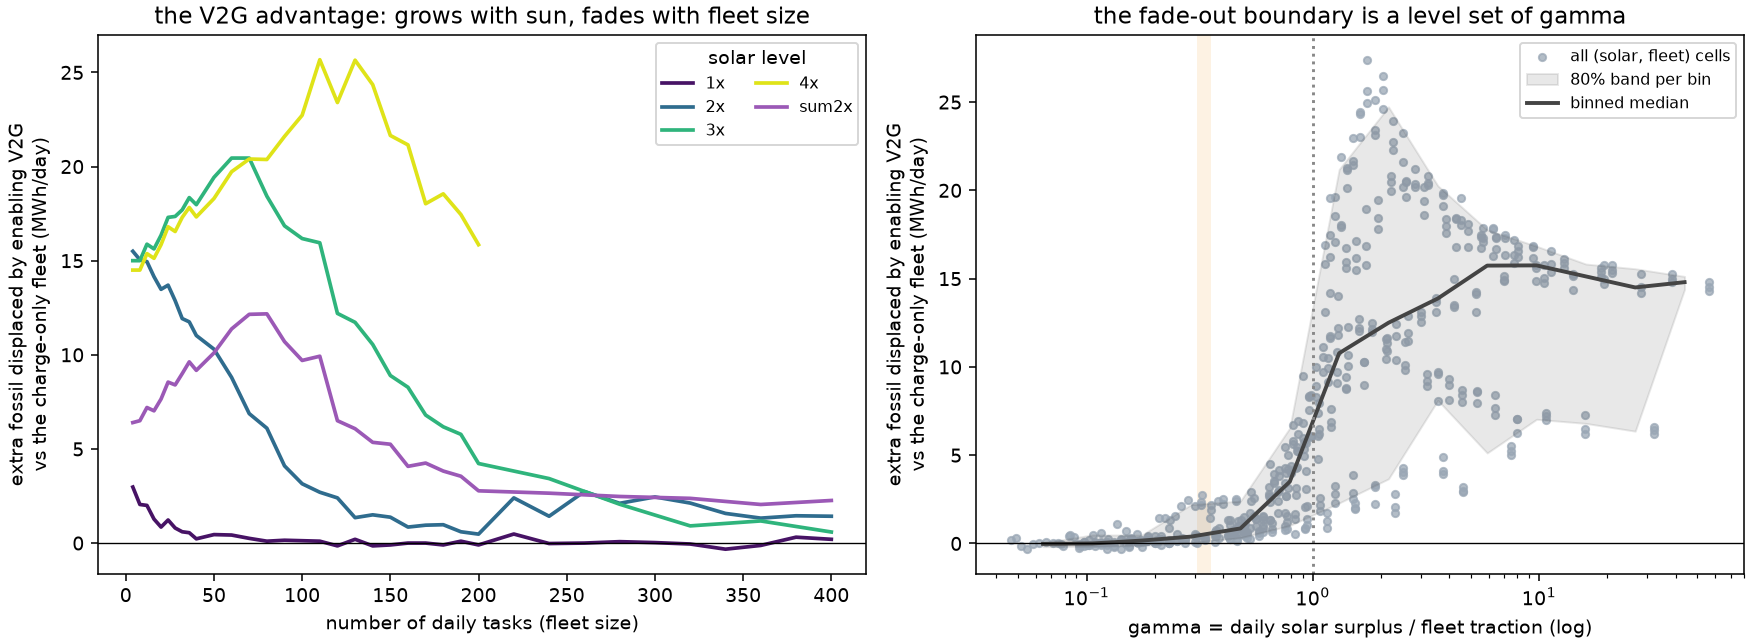
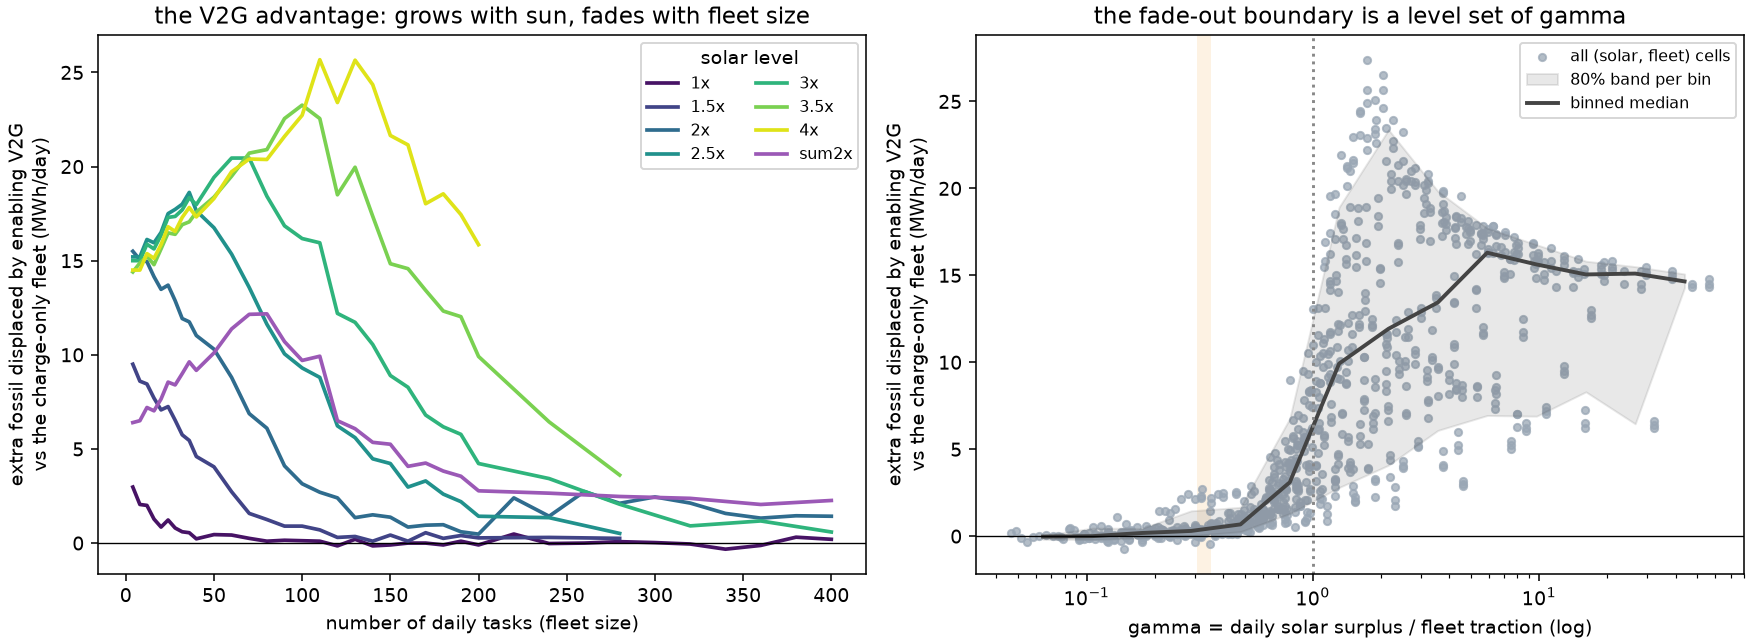
overnight6 (CAPS3 charging-resolution, SATFIX fixed-fleet concavity) + fig 8.16 redesign, fig 8.13 panel letters
Fig 8.16 rebuilt around the two defensible stories: (a) the feasibility cliff
at chg=0.7 (charge-only 9/9 -> 7/9 -> 5/9 -> 1/9 infeasible as the generation
cap tightens; V2G flat at 1/9), (b) matched-instance value vs charging cap at
uncapped generation. The old aggregated value-vs-gen-cap panel mixed different
surviving fleet-size mixes per cap level (Simpson-style selection artifact:
tight-charging cells averaged only small-fleet survivors) and its
'tight generation caps raise value 55->85%' reading is retracted.

diff --git a/overnight6.py b/overnight6.py
@@ -1,0 +1,109 @@
+"""
+Overnight-6: two follow-ups from the figure review. Same conventions as
+overnight3/4/5 (atomic per-row checkpoints, idx%K shards, seed-outermost).
+
+  CAPS3  : charging-cap resolution + seeds for Fig 8.16(b). chg_c in
+           {0.35,0.5,0.7,1.0,1.4,inf} at UNCAPPED generation, n in {20,60,120},
+           seeds 0-5, solar vs v2g. Dedups against CAPS/CAPS2 grids. Gives the
+           matched value-vs-charging-cap lines proper resolution and error bars.
+  SATFIX : the true concavity view that Fig 8.6 failed to show: FIXED fleet
+           and duty, fine solar ladder (pv 1.00-4.00 step 0.25), so absorption
+           saturates through the fleet+storage capacity rather than being
+           bought away. Feeds a fuel-vs-solar curve whose marginal displacement
+           shrinks (Theorem 1's signature), n in {20,60}, seeds 0-2.
+
+Run:   OVERNIGHT6_STUDIES="CAPS3,SATFIX" OVERNIGHT6_SHARD="i/K" python3 overnight6.py
+"""
+from __future__ import annotations
+import os, sys, json, time, glob
+
+sys.path.insert(0, os.path.dirname(os.path.abspath(__file__)))
+import numpy as np
+from recreate_arxiv import build_instance, BREAKS
+from overnight3 import ckpt, save, solve, rand_trips
+
+STUDIES = os.environ.get("OVERNIGHT6_STUDIES", "CAPS3,SATFIX").split(",")
+SH_I, SH_K = (int(x) for x in os.environ.get("OVERNIGHT6_SHARD", "0/1").split("/"))
+OUT = os.path.join(os.path.dirname(os.path.abspath(__file__)), "results", "arxiv")
+
+
+def _stats(inst):
+    surplus = float(np.maximum(-inst.Delta, 0.0).sum())
+    traction = float(sum(tr.energy for tr in inst.trips))
+    return {"surplus_mwh": round(surplus / 10, 2), "traction_mwh": round(traction / 10, 2),
+            "ratio": round(surplus / max(traction, 1e-9), 3)}
+
+
+def caps3():
+    rows, path = ckpt(f"overnight4_caps3_s{SH_I}of{SH_K}.json")
+    done = {(r["gen_m"], r["chg_c"], r["n_tasks"], r["seed"], r["scenario"]) for r in rows}
+    for p in glob.glob(os.path.join(OUT, "overnight4_caps_s*.json")) + \
+             glob.glob(os.path.join(OUT, "overnight4_caps2_s*.json")):
+        for r in json.load(open(p)):
+            done.add((r["gen_m"], r["chg_c"], r["n_tasks"], r["seed"], r["scenario"]))
+    PV = 2.5
+    CHG = [0.35, 0.5, 0.7, 1.0, 1.4, float("inf")]
+    cells = [(sd, n, c) for sd in range(6) for n in (20, 60, 120) for c in CHG]
+    print(f"CAPS3: {len(cells)} cells x 2, shard {SH_I}/{SH_K} ({len(rows)} done)", flush=True)
+    for idx, (sd, n, c) in enumerate(cells):
+        if idx % SH_K != SH_I:
+            continue
+        fleet = rand_trips(3, n, sd, salt=50_000)
+        inst0 = build_instance(3, 2.0, BREAKS, trip_list=fleet, pv_scale=PV)
+        peak_sur = float(np.maximum(-inst0.Delta, 0.0).max())
+        base = {"gen_m": float("inf"), "chg_c": c, "pv": PV, "n_tasks": n, "seed": sd,
+                "charge_cap": (round(c * peak_sur, 2) if np.isfinite(c) else None), **_stats(inst0)}
+        for scen in ("solar", "v2g"):
+            if (float("inf"), c, n, sd, scen) in done:
+                continue
+            inst = build_instance(3, 2.0, BREAKS, trip_list=fleet, pv_scale=PV)
+            inst.charge_cap = c * peak_sur if np.isfinite(c) else float("inf")
+            r = solve(inst, scen, tl=120.0)
+            if r is None:
+                rows.append({**base, "scenario": scen, "feasible": False})
+            else:
+                rows.append({**base, "scenario": scen, "feasible": True,
+                             "total": round(r["total"], 1), "g_units": round(r["g_units"], 2),
+                             "trucks": r["trucks"], "batteries": r["batteries"],
+                             "gap_pct": round(r["gap"], 3)})
+            save(rows, path)
+        if idx % 15 == 0:
+            print(f"  [{idx + 1}/{len(cells)}, {len(rows)} rows]", flush=True)
+
+
+def satfix():
+    rows, path = ckpt(f"overnight6_satfix_s{SH_I}of{SH_K}.json")
+    done = {(r["pv"], r["n_tasks"], r["seed"], r["scenario"]) for r in rows}
+    PVS = [round(1.0 + 0.25 * k, 2) for k in range(13)]      # 1.00 .. 4.00
+    cells = [(sd, n, pv) for sd in (0, 1, 2) for n in (20, 60) for pv in PVS]
+    print(f"SATFIX: {len(cells)} cells x 2, shard {SH_I}/{SH_K} ({len(rows)} done)", flush=True)
+    for idx, (sd, n, pv) in enumerate(cells):
+        if idx % SH_K != SH_I:
+            continue
+        fleet = rand_trips(3, n, sd, salt=50_000)
+        inst0 = build_instance(3, 2.0, BREAKS, trip_list=fleet, pv_scale=pv)
+        base = {"pv": pv, "n_tasks": n, "seed": sd, **_stats(inst0),
+                "baseline_mwh": round(float(np.maximum(inst0.Delta, 0.0).sum()) / 10, 2)}
+        for scen in ("solar", "v2g"):
+            if (pv, n, sd, scen) in done:
+                continue
+            inst = build_instance(3, 2.0, BREAKS, trip_list=fleet, pv_scale=pv)
+            r = solve(inst, scen, tl=120.0)
+            if r is None:
+                continue
+            rows.append({**base, "scenario": scen, "total": round(r["total"], 1),
+                         "g_units": round(r["g_units"], 2), "trucks": r["trucks"],
+                         "batteries": r["batteries"], "gap_pct": round(r["gap"], 3)})
+            save(rows, path)
+        if idx % 15 == 0:
+            print(f"  [{idx + 1}/{len(cells)}, {len(rows)} rows]", flush=True)
+
+
+if __name__ == "__main__":
+    os.makedirs(OUT, exist_ok=True)
+    FN = {"CAPS3": caps3, "SATFIX": satfix}
+    t0 = time.time()
+    for st in [s.strip().upper() for s in STUDIES]:
+        t1 = time.time(); FN[st]()
+        print(f"-- {st} done in {(time.time() - t1) / 60:.1f} min --\n", flush=True)
+    print(f"all done in {(time.time() - t0) / 3600:.2f} h")

diff --git a/section8_gallery.py b/section8_gallery.py
@@ -984,7 +984,7 @@ if sa13:
                        label=f"{'EVSP-Solar' if scen == 'solar' else 'EVSP-V2G'}, {TIT9.get(sol, sol)}")
     ax[0].axhline(0, color="#888", lw=0.7)
     ax[0].set_xlabel("number of task locations L"); ax[0].set_ylabel("total-cost saving from chargers everywhere (%)")
-    ax[0].set_title("value of distributed charging grows with the map")
+    ax[0].set_title("(a) value of distributed charging grows with the map")
     ax[0].legend(fontsize=8, loc="lower right")
     for st, c, lab in (("depot", "#888888", "charger at depot only"),
                        ("all", "#16a085", "charger at every location")):
@@ -995,7 +995,7 @@ if sa13:
             b.append(float(np.mean(v)) if v else np.nan)
         ax[1].plot(LS13, b, "-o", color=c, ms=4, label=lab)
     ax[1].set_xlabel("number of task locations L"); ax[1].set_ylabel("stationary batteries bought (mean, 2x solar)")
-    ax[1].set_title("distributed charging substitutes for stationary storage"); ax[1].legend(fontsize=8)
+    ax[1].set_title("(b) distributed charging substitutes for stationary storage"); ax[1].legend(fontsize=8)
     for sol, mk in (("1x", "-o"), ("2x", "-s"), ("summer", "--^"), ("sum2x", "--v")):
         vs = []
         for L in LS13:
@@ -1008,7 +1008,7 @@ if sa13:
             vs.append(float(np.mean(pp)) if pp else np.nan)
         ax[2].plot(LS13, vs, mk, ms=4, label=TIT9.get(sol, sol))
     ax[2].set_xlabel("number of task locations L"); ax[2].set_ylabel("V2G saving vs charge-only (%)")
-    ax[2].set_title("V2G value by solar regime, across map sizes"); ax[2].legend(fontsize=8)
+    ax[2].set_title("(c) V2G value by solar regime, across map sizes"); ax[2].legend(fontsize=8)
     # charger build-out frontier: depot -> +2 -> +5 -> everywhere (large maps)
     NARMS = [("depot", 1), ("sub2", 3), ("sub5", 6), ("all", None)]
     for scen, c in (("solar", "#e08020"), ("v2g", "#2E75B6")):
@@ -1025,7 +1025,7 @@ if sa13:
     ax[3].axhline(0, color="#888", lw=0.7)
     ax[3].set_xlabel("number of charging locations (depot + k)")
     ax[3].set_ylabel("total-cost saving vs depot-only (%)")
-    ax[3].set_title("charger build-out: diminishing returns"); ax[3].legend(fontsize=8)
+    ax[3].set_title("(d) charger build-out: diminishing returns"); ax[3].legend(fontsize=8)
     finish(fig, "fig_8_13_stations.png")
     GALLERY.append("\n![fig 8.13](fig_8_13_stations.png)\n")
     caption("Figure 8.13",
@@ -1170,69 +1170,67 @@ if et15:
         "the high-solar value survives. The R-rule's boundary is therefore "
         "loss-robust; only the height of the curve moves.")
 
-# %% Figure 8.16 -- infrastructure caps: value under binding limits + the feasibility cliff
+# %% Figure 8.16 -- infrastructure caps: the feasibility cliff + matched charging-cap effect
 cp16 = []
 for _p in _glob.glob(os.path.join(ARX, "overnight4_caps*_s*.json")):
     cp16 += json.load(open(_p))
 if cp16:
     cidx16 = {(r["gen_m"], r["chg_c"], r["n_tasks"], r["seed"], r["scenario"]): r
               for r in cp16}
-    gms = sorted({r["gen_m"] for r in cp16}, key=lambda x: (x == float("inf"), x))
-    ccs = sorted({r["chg_c"] for r in cp16}, key=lambda x: (x == float("inf"), x))
     fig, ax = plt.subplots(1, 2, figsize=(12.5, 4.4), constrained_layout=True)
-    CC16 = {0.35: "#c0392b", 0.5: "#e08020", 0.7: "#2E75B6", 1.0: "#16a085",
-            1.4: "#7d3c98", float("inf"): "#888888"}
+    # (a) the cliff at a moderate charging cap: infeasible share vs generation cap
+    gms = sorted({r["gen_m"] for r in cp16 if r["chg_c"] == 0.7},
+                 key=lambda x: (x == float("inf"), x))
     xlab16 = [("uncapped" if not np.isfinite(m) else f"{m:g}") for m in gms]
-    for c in ccs:
-        ys = []
-        for m in gms:
-            v = []
-            for (m_, c_, n, sd, sc), r in cidx16.items():
-                if (m_, c_, sc) == (m, c, "solar") and r.get("feasible", True):
-                    w = cidx16.get((m_, c_, n, sd, "v2g"))
-                    if w and w.get("feasible", True):
-                        v.append(100 * (r["total"] - w["total"]) / r["total"])
-            ys.append(float(np.mean(v)) if v else np.nan)
-        ax[0].plot(range(len(gms)), ys, "-o", ms=4, color=CC16.get(c, "#555"),
-                   label=("charging uncapped" if not np.isfinite(c) else f"charging cap {c:g}x peak surplus"))
-    ax[0].set_xticks(range(len(gms))); ax[0].set_xticklabels(xlab16)
-    ax[0].set_xlabel("generation cap (x no-fleet peak deficit)")
-    ax[0].set_ylabel("V2G saving vs charge-only (%)")
-    ax[0].set_title("tight generation capacity RAISES the value of V2G")
-    ax[0].legend(fontsize=8)
     for scen, c, lab in (("solar", "#e08020", "charge-only fleet"),
                          ("v2g", "#2E75B6", "V2G fleet")):
         ys = []
         for m in gms:
-            tot, bad = 0, 0
-            for (m_, c_, n, sd, sc), r in cidx16.items():
-                if (m_, sc) == (m, scen):
-                    tot += 1; bad += (not r.get("feasible", True))
-            ys.append(100 * bad / tot if tot else np.nan)
-        ax[1].plot(range(len(gms)), ys, "-o", ms=4, color=c, label=lab)
-    ax[1].set_xticks(range(len(gms))); ax[1].set_xticklabels(xlab16)
-    ax[1].set_xlabel("generation cap (x no-fleet peak deficit)")
-    ax[1].set_ylabel("% of instances INFEASIBLE")
-    ax[1].set_title("the feasibility cliff: sometimes V2G is the only way to electrify")
-    ax[1].legend(fontsize=8)
+            rows = [r for r in cp16 if r["gen_m"] == m and r["chg_c"] == 0.7
+                    and r["scenario"] == scen]
+            ys.append(100 * sum(1 for r in rows if not r.get("feasible", True))
+                      / max(len(rows), 1))
+        ax[0].plot(range(len(gms)), ys, "-o", ms=5, color=c, label=lab)
+    ax[0].set_xticks(range(len(gms))); ax[0].set_xticklabels(xlab16)
+    ax[0].set_xlabel("generation cap (x no-fleet peak deficit); charging cap fixed at 0.7x peak surplus")
+    ax[0].set_ylabel("% of instances INFEASIBLE")
+    ax[0].set_title("(a) the feasibility cliff: charge-only fails where V2G operates")
+    ax[0].legend(fontsize=8)
+    # (b) charging-cap effect at uncapped generation, matched per fleet size
+    ccs = sorted({r["chg_c"] for r in cp16 if not np.isfinite(r["gen_m"])},
+                 key=lambda x: (x == float("inf"), x))
+    xl = [("uncapped" if not np.isfinite(c) else f"{c:g}") for c in ccs]
+    NCOL = {20: "#2E75B6", 60: "#16a085", 120: "#7d3c98", 200: "#c0392b"}
+    for n in sorted({r["n_tasks"] for r in cp16}):
+        ys = []
+        for c in ccs:
+            v = []
+            for sd in range(6):
+                s = cidx16.get((float("inf"), c, n, sd, "solar"))
+                w = cidx16.get((float("inf"), c, n, sd, "v2g"))
+                if s and w and s.get("feasible", True) and w.get("feasible", True):
+                    v.append(100 * (s["total"] - w["total"]) / s["total"])
+            ys.append(float(np.mean(v)) if v else np.nan)
+        ax[1].plot(range(len(ccs)), ys, "-o", ms=5, color=NCOL.get(n, "#555"),
+                   label=f"{n} tasks")
+    ax[1].set_xticks(range(len(ccs))); ax[1].set_xticklabels(xl)
+    ax[1].set_xlabel("charging cap (x peak solar surplus); generation uncapped")
+    ax[1].set_ylabel("V2G saving vs charge-only (%), matched instances")
+    ax[1].set_title("(b) tight charging caps clip V2G's value")
+    ax[1].legend(fontsize=8, title="fleet size")
     finish(fig, "fig_8_16_caps.png")
     GALLERY.append("\n![fig 8.16](fig_8_16_caps.png)\n")
     caption("Figure 8.16",
-        "Infrastructure limits as a frontier rather than a single instance (pv = 2.5x, "
-        "20-200 tasks, 3 seeds; caps anchored to each instance's no-fleet peak deficit "
-        "and peak solar surplus). Left: V2G's saving over charge-only by cap "
-        "tightness, over instances where BOTH fleets are feasible. An uncapped "
-        "generator prices V2G at ~55%; capping generation near the no-fleet peak "
-        "raises it to ~85%, because peak shaving stops being optional -- the cap "
-        "converts V2G from an arbitrage play into capacity. Very tight charging caps "
-        "(0.35x peak surplus) clip the value instead, by limiting how much surplus "
-        "the fleet can absorb (the charging cap binds, chg_util ~ 1, in most V2G "
-        "solves). Right: the feasibility cliff. At a generation cap equal to the "
-        "no-fleet peak, the charge-only fleet is INFEASIBLE in every instance -- any "
-        "charging schedule pushes some block over the cap -- while the V2G fleet "
-        "remains feasible by discharging into its own charging peaks. Under tight "
-        "generation capacity, bidirectionality is not a saving but a prerequisite "
-        "for electrification.")
+        "Infrastructure limits at pv = 2.5x, caps anchored to each instance's "
+        "no-fleet peak deficit and peak solar surplus. (a) With a moderate "
+        "charging cap, tightening the generation cap toward the no-fleet peak "
+        "makes the charge-only fleet infeasible in every instance (any charging "
+        "schedule pushes some block over the cap) while the V2G fleet keeps "
+        "operating by discharging into its own charging peaks. (b) On matched "
+        "feasible instances at uncapped generation, tighter charging caps "
+        "monotonically clip V2G's saving by limiting how much surplus the fleet "
+        "can absorb; gaps in a line mean the tighter cap left no feasible "
+        "charge-only counterpart at that fleet size.")
 
 # %% Figure 8.17 -- pack size and charge rate: the fleet-as-storage capacity knob
 pk17 = []

diff --git a/results/figures/GALLERY.md b/results/figures/GALLERY.md
@@ -153,7 +153,7 @@ Read top to bottom: this is the narrative order of the computational study.
 
 ![fig 8.16](fig_8_16_caps.png)
 
-**Figure 8.16.** Infrastructure limits as a frontier rather than a single instance (pv = 2.5x, 20-200 tasks, 3 seeds; caps anchored to each instance's no-fleet peak deficit and peak solar surplus). Left: V2G's saving over charge-only by cap tightness, over instances where BOTH fleets are feasible. An uncapped generator prices V2G at ~55%; capping generation near the no-fleet peak raises it to ~85%, because peak shaving stops being optional -- the cap converts V2G from an arbitrage play into capacity. Very tight charging caps (0.35x peak surplus) clip the value instead, by limiting how much surplus the fleet can absorb (the charging cap binds, chg_util ~ 1, in most V2G solves). Right: the feasibility cliff. At a generation cap equal to the no-fleet peak, the charge-only fleet is INFEASIBLE in every instance -- any charging schedule pushes some block over the cap -- while the V2G fleet remains feasible by discharging into its own charging peaks. Under tight generation capacity, bidirectionality is not a saving but a prerequisite for electrification.
+**Figure 8.16.** Infrastructure limits at pv = 2.5x, caps anchored to each instance's no-fleet peak deficit and peak solar surplus. (a) With a moderate charging cap, tightening the generation cap toward the no-fleet peak makes the charge-only fleet infeasible in every instance (any charging schedule pushes some block over the cap) while the V2G fleet keeps operating by discharging into its own charging peaks. (b) On matched feasible instances at uncapped generation, tighter charging caps monotonically clip V2G's saving by limiting how much surplus the fleet can absorb; gaps in a line mean the tighter cap left no feasible charge-only counterpart at that fleet size.
 
 
 ![fig 8.17](fig_8_17_pack.png)